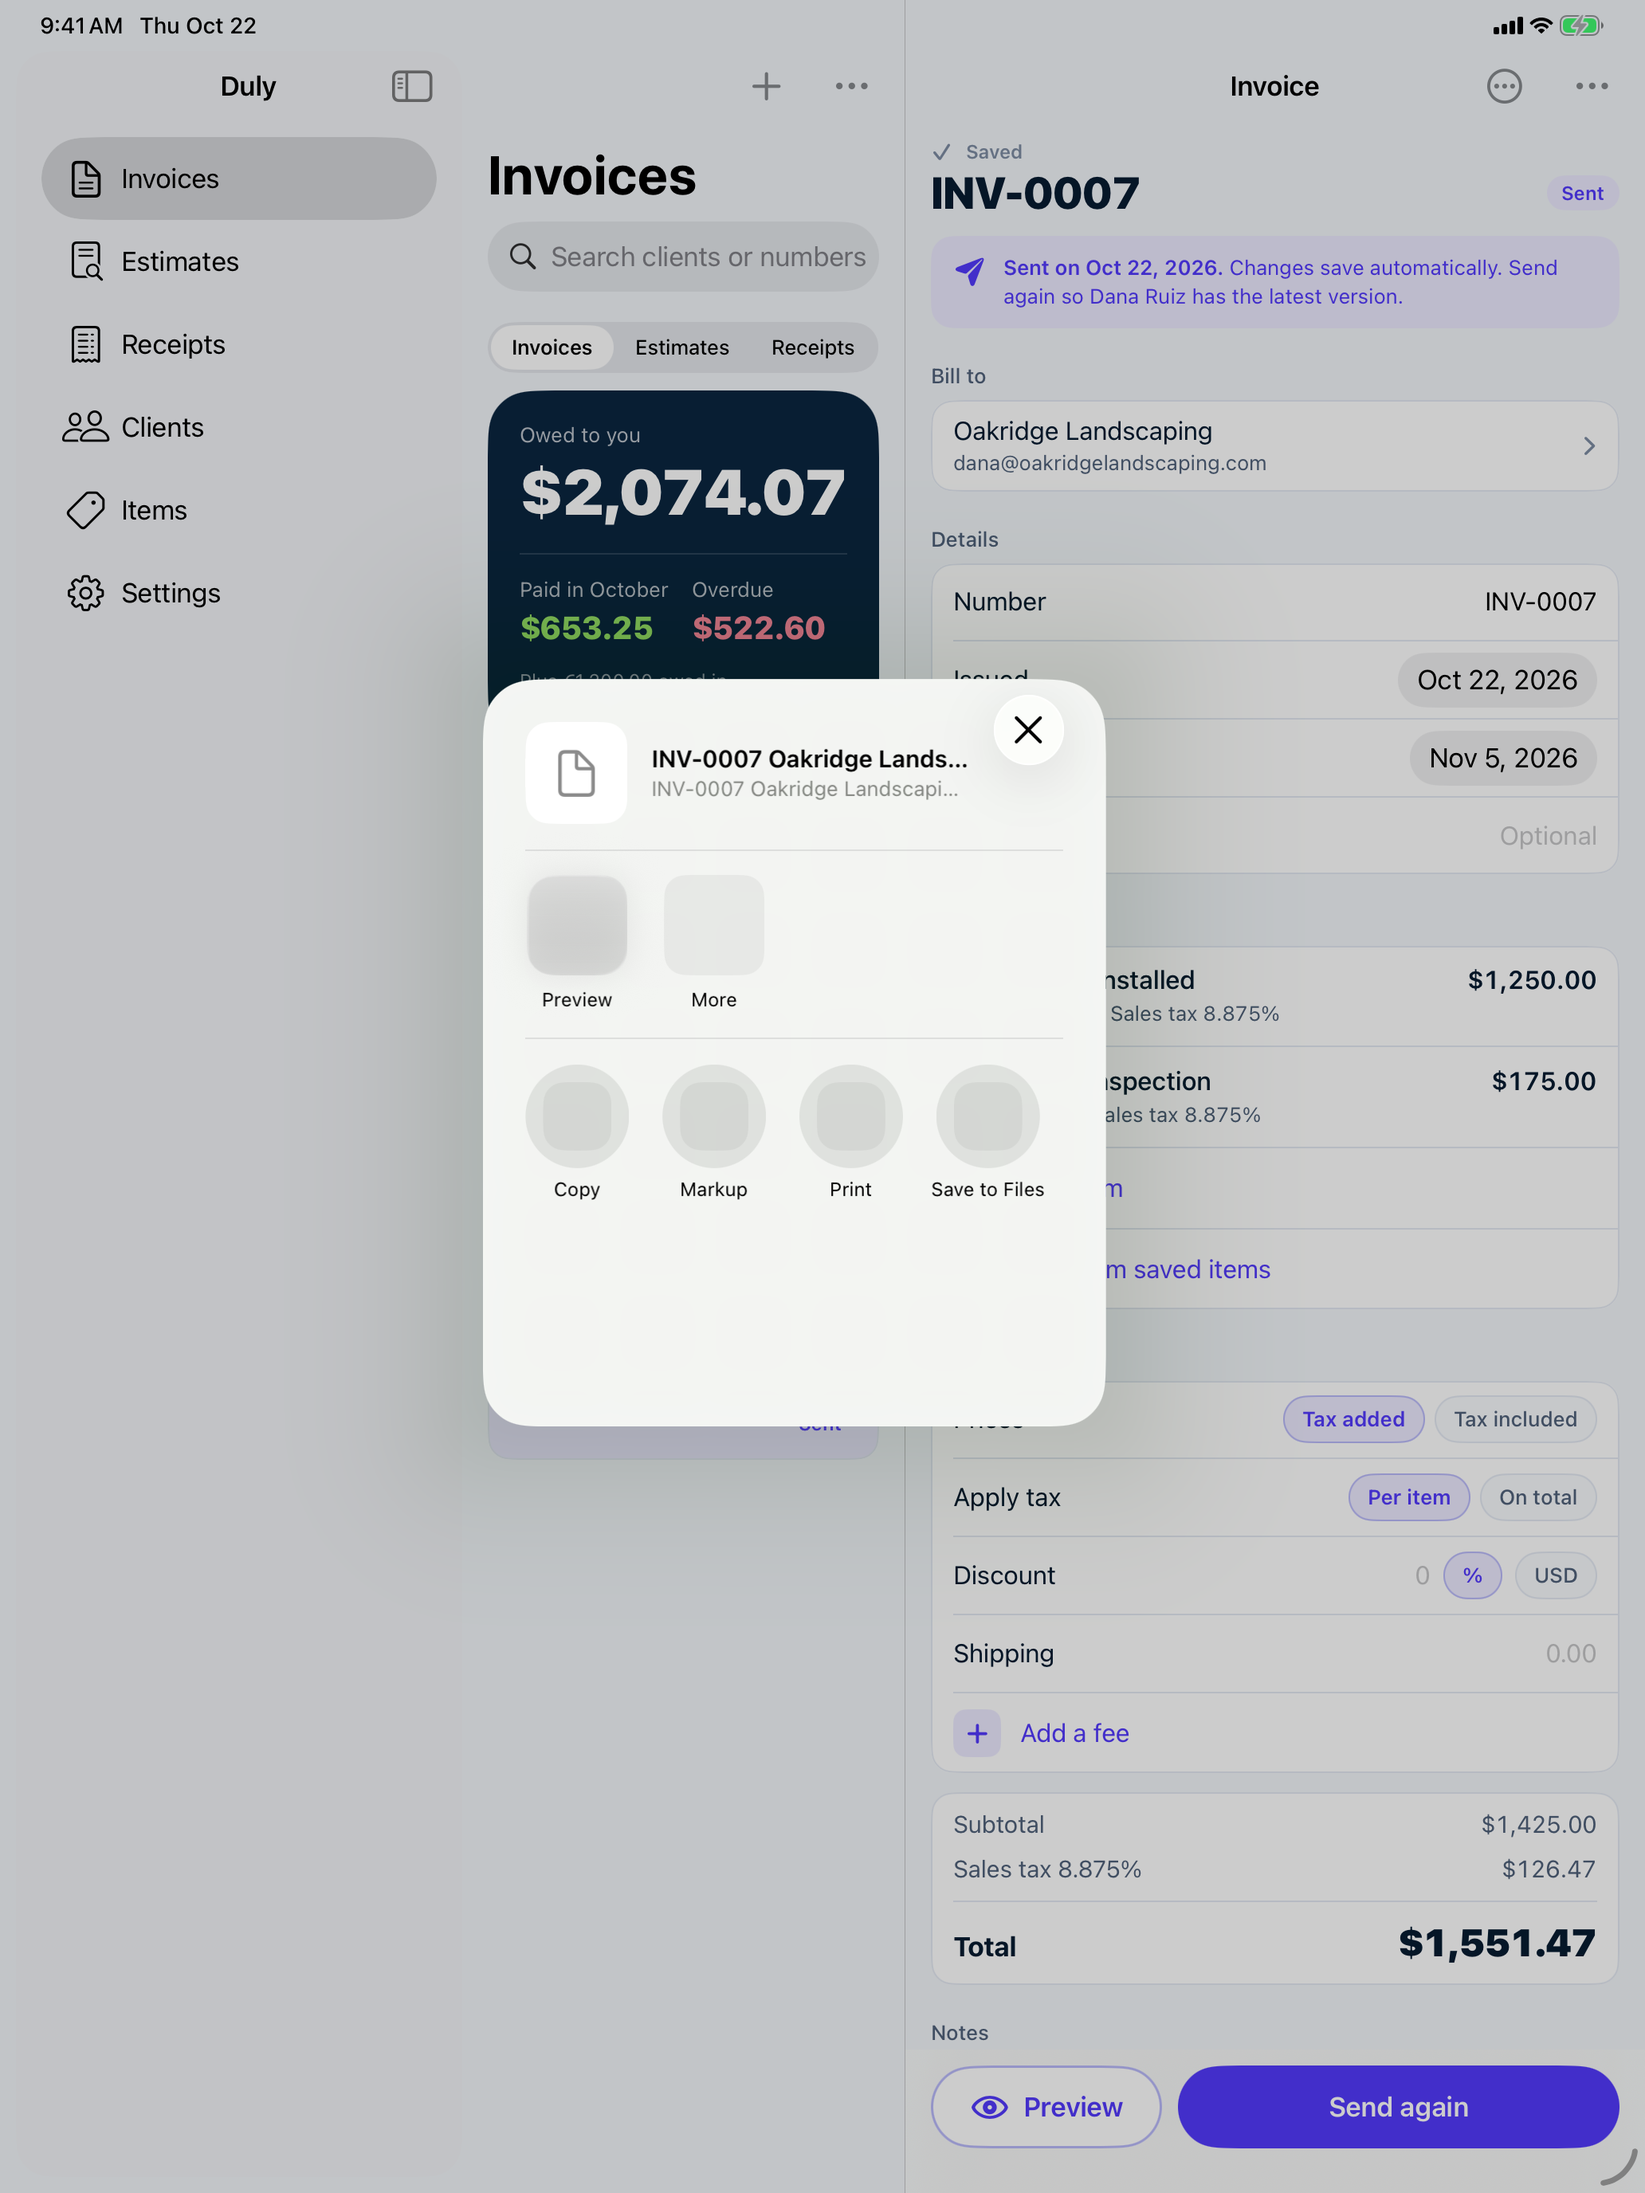
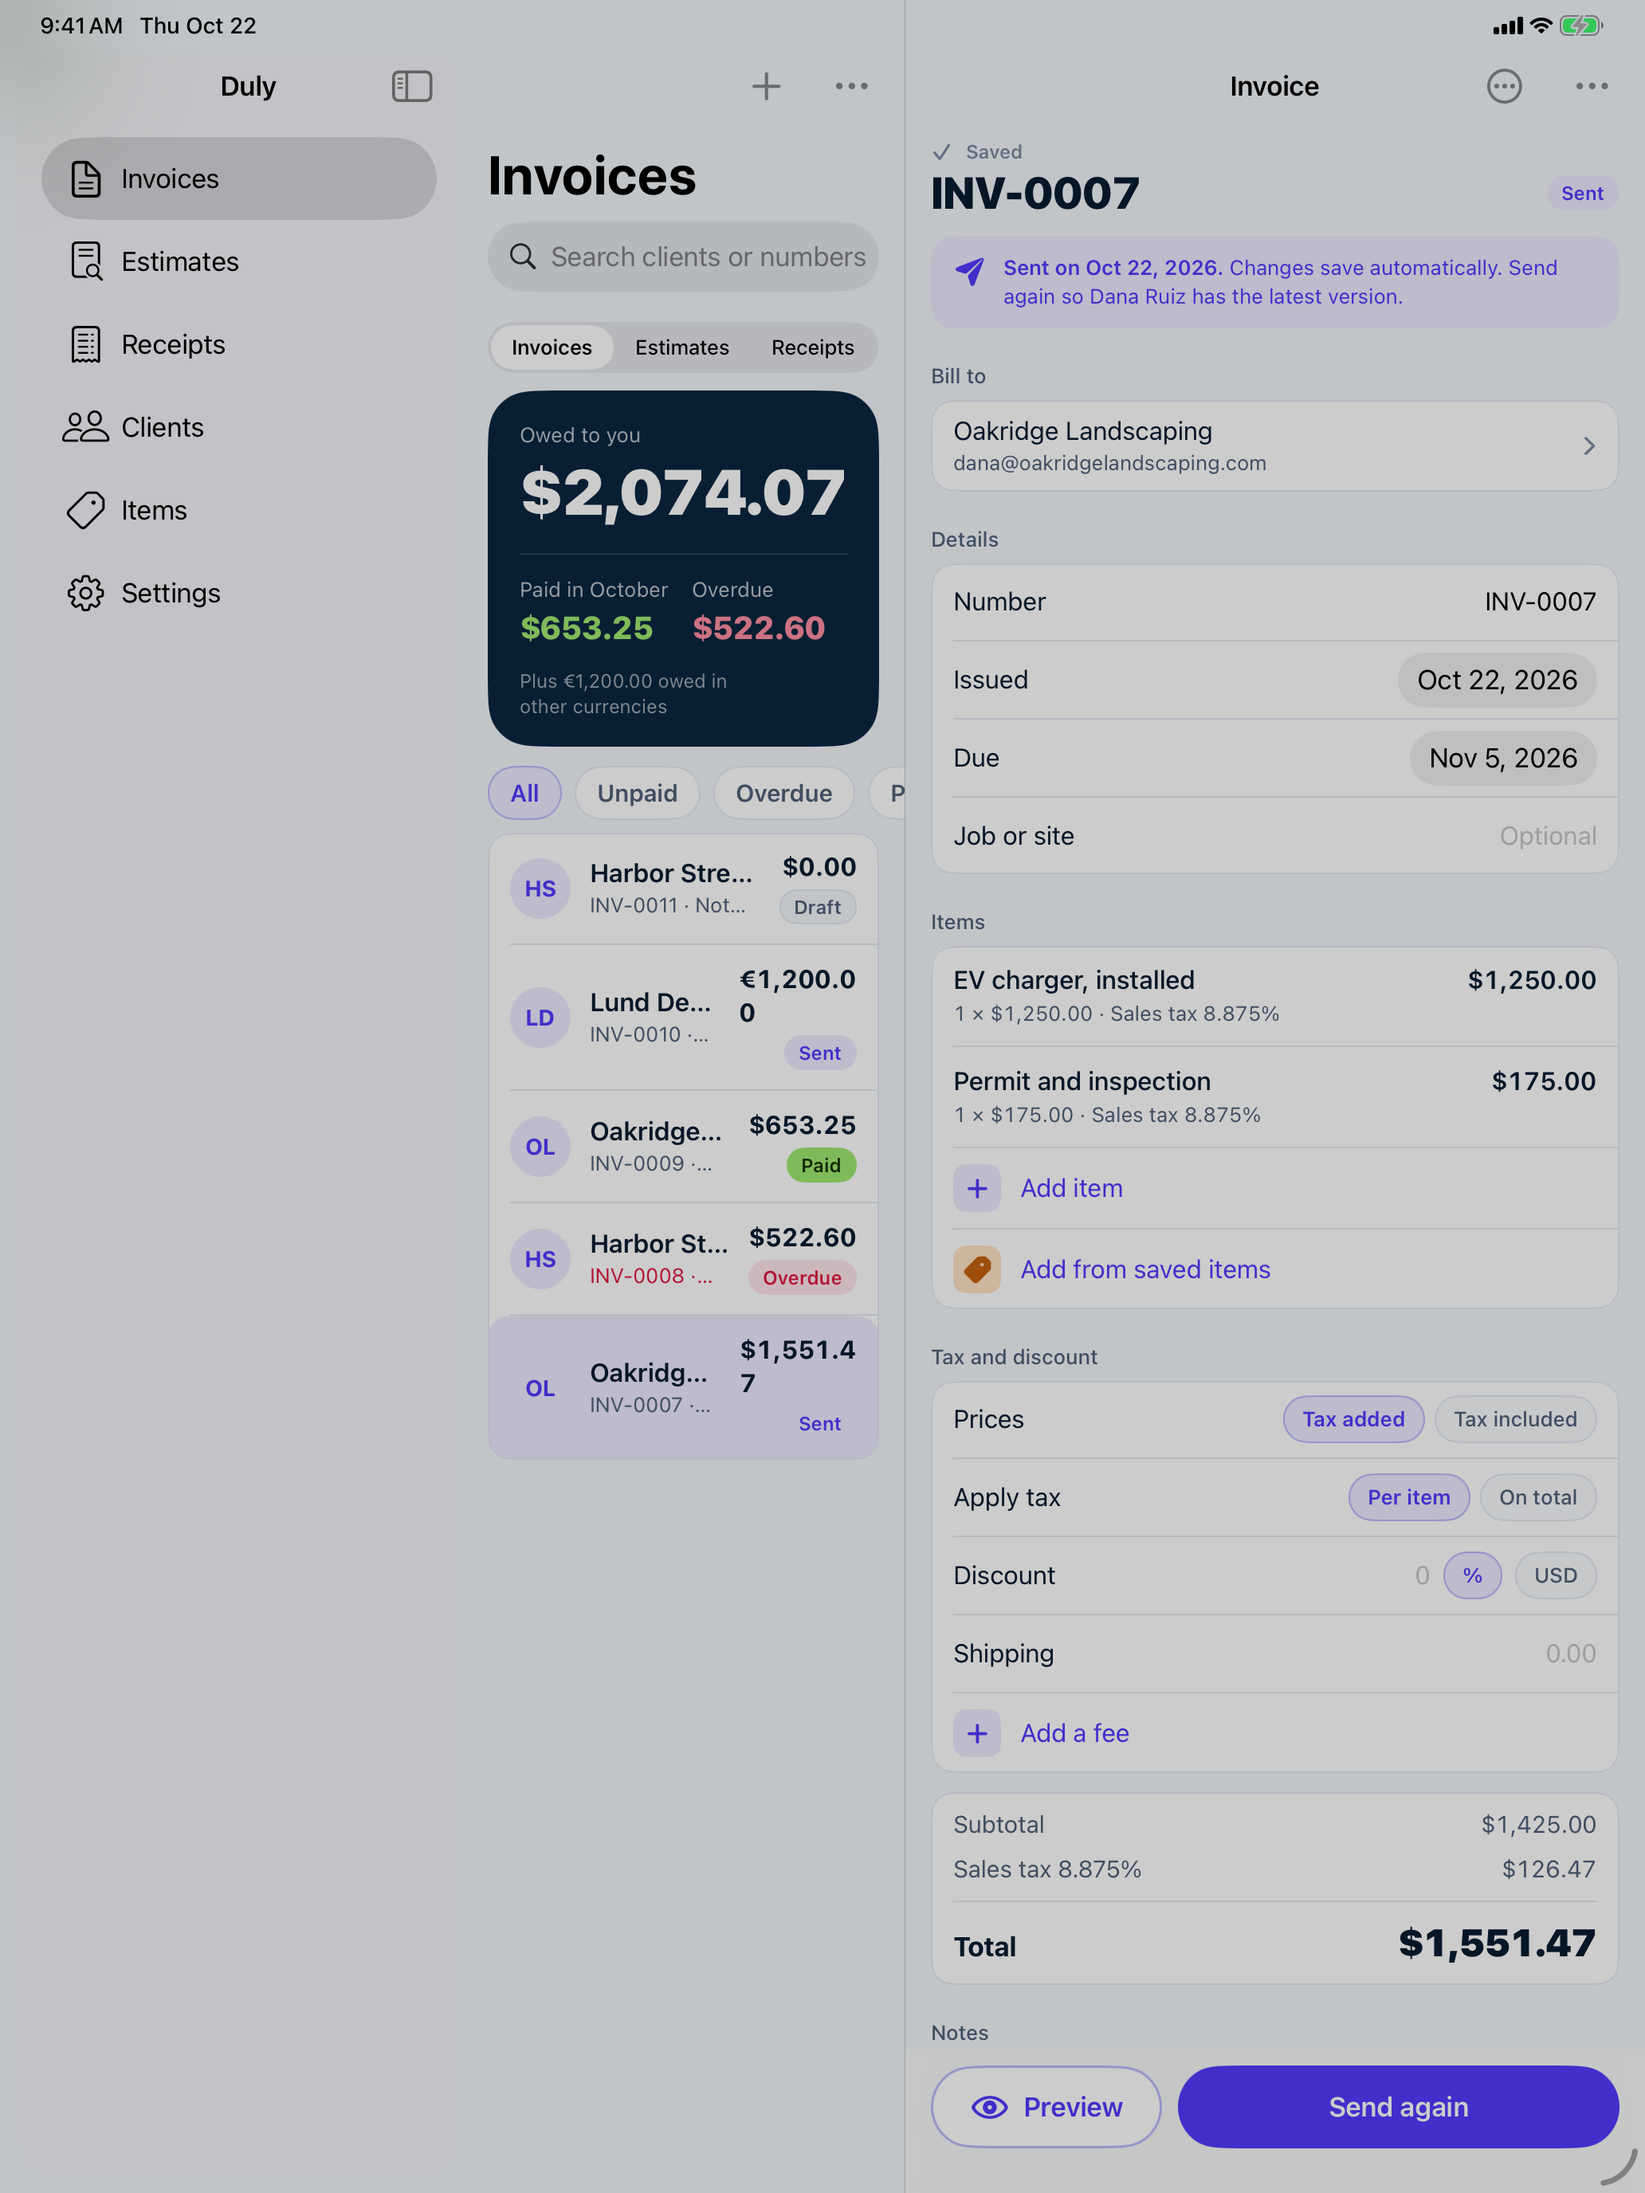
Screens (US iPad Pro 13-inch (M5)) for 051ae0e3c385778e1f0d5e765f02ac49ec2e0576

Changed region(s): [[0.2791, 0.3125, 0.6822, 0.6562]]

diff --git a/README.md b/README.md
@@ -1,1 +1,1 @@
-App Store screens from 1169320d633e41c275ae6ea3924f98a0a12abefe
+App Store screens from 051ae0e3c385778e1f0d5e765f02ac49ec2e0576
